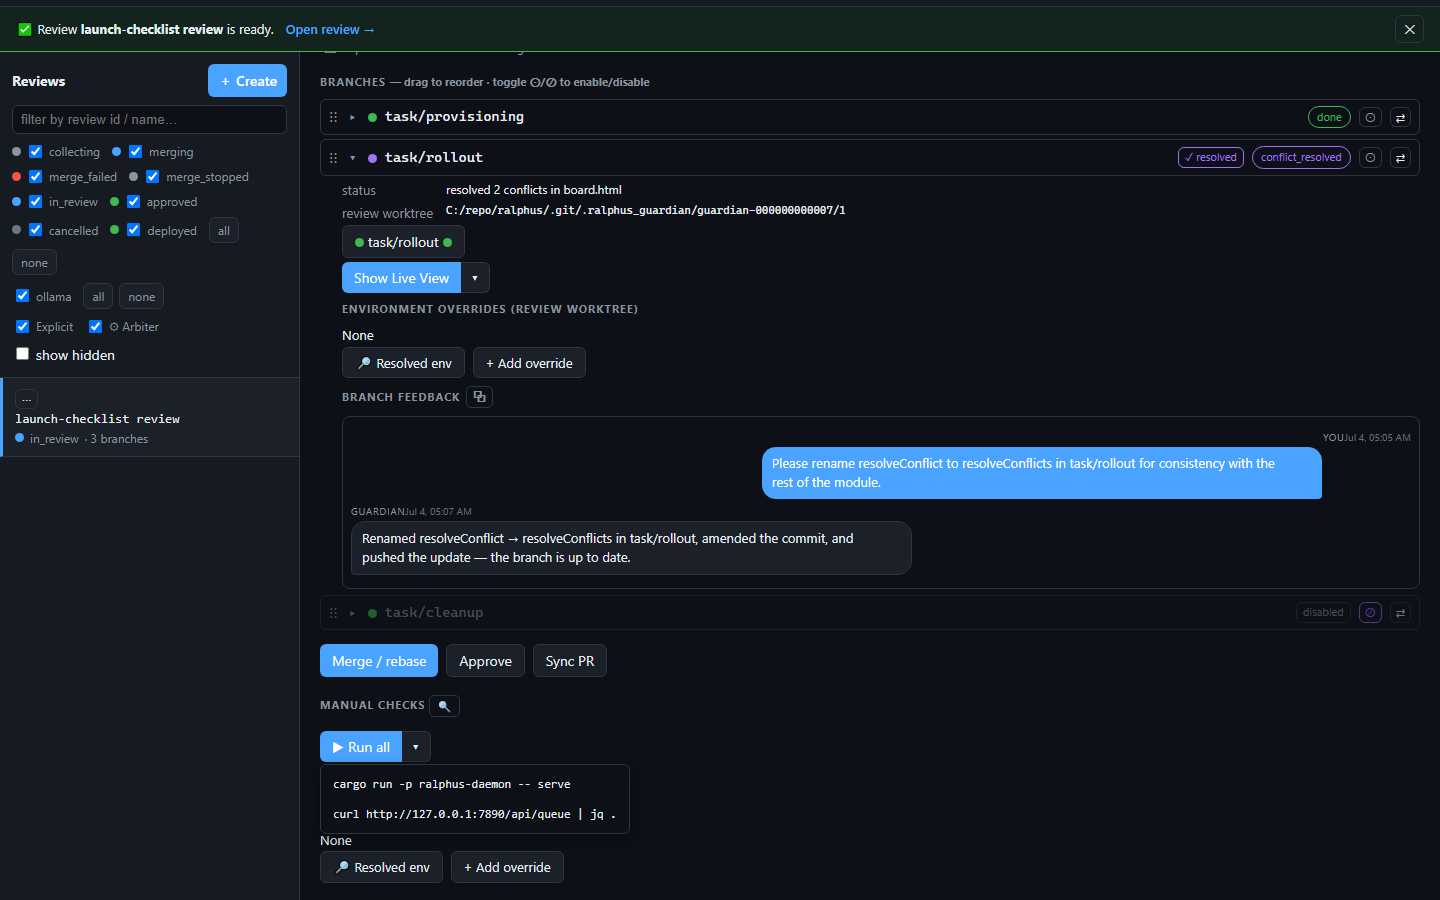
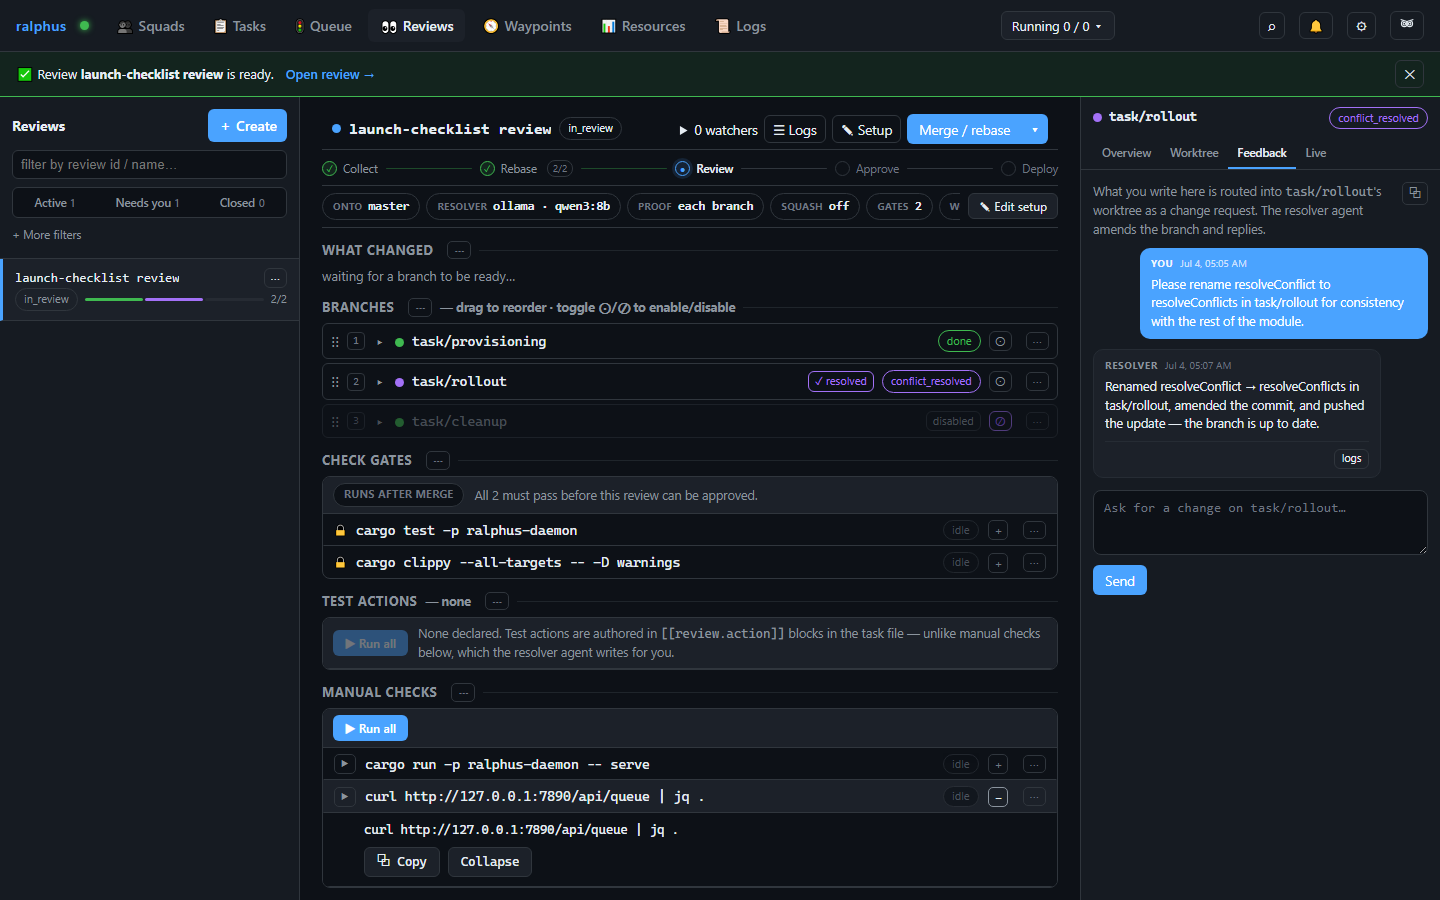
Regenerate the Reviews screenshots for the redesigned tab (RAL-400 follow-on)
All three were taken before the Reviews tab became a three-pane layout with
a branch inspector, and their scenario could no longer run at all. Three
things had changed under it:

The sidebar now polls `/api/guardian-index` and fetches detail per id, so a
fixture serving only `/api/guardians` rendered "No reviews." forever. A
review is addressed by *name* with an `?id=` fallback, so a deep link built
from its id was rewritten back to the unselected list -- the scenario selects
it the way the page does instead. And the feedback thread moved out of the
branch row's merge-detail panel into the inspector's own Feedback tab, so
`.chat-msg` no longer exists.

The manual-checks shot needed more than a selector fix. Its dropdown is gone
-- the checks render inline now -- so the shot had become pixel-identical to
the two above it, and the page would have carried the same image three times.
It expands one check so it shows what its section is actually for, and its
alt text no longer describes a dropdown.

diff --git a/cli-py/src/ralphus/docsgen/shots.py b/cli-py/src/ralphus/docsgen/shots.py
@@ -128,22 +128,37 @@ def _reviews(page: Page) -> None:
         fixture_server(fixtures.REVIEWS_ROUTES) as daemon_url,
         librarian_server(daemon_url) as base_url,
     ):
-        _goto(page, base_url, f"#/reviews/{fixtures.REVIEWS_GUARDIAN['id']}")
+        # The redesigned tab addresses a review by *name* and rewrites the
+        # hash, so a deep link built from its id lands on the unselected list.
+        # Select it the way the page itself does instead.
+        _goto(page, base_url, "#/reviews")
+        page.wait_for_selector("#reviews-page")
+        page.evaluate(f"selectGuardian({fixtures.REVIEWS_GUARDIAN['id']!r})")
         page.wait_for_selector(".branch-row")
         _shoot(page, "reviews-overview")
 
-        # The feedback thread only renders once its branch's merge-detail
-        # panel is expanded (RAL-272) — click that branch's toggle first.
-        page.locator(
-            f'[data-click="toggleBranch"][data-branch-id="{fixtures.REVIEWS_ROLLOUT_BRANCH_ID}"]'
-        ).click()
-        chat = page.locator(".chat-msg").first
+        # The feedback thread moved into the branch inspector's own Feedback
+        # tab, so it is reached by selecting the branch rather than by
+        # expanding a merge-detail panel on the row.
+        page.evaluate(
+            "inspectBranchFromMenu("
+            f"{fixtures.REVIEWS_ROLLOUT_BRANCH_ID!r}, 'feedback')"
+        )
+        chat = page.locator(".fb-msg").first
         chat.wait_for()
         chat.scroll_into_view_if_needed()
         _shoot(page, "reviews-chat")
 
-        page.locator('button[data-click="toggleManualMenu"]').click()
-        page.wait_for_timeout(50)
+        # Manual checks are no longer behind a popup menu -- they render
+        # inline as runnable command rows. Expand the first one so this shot
+        # shows something the overview above does not already show.
+        manual = page.locator(
+            'button[data-click="runCheck"][data-kind="manual"]'
+        ).first
+        manual.wait_for()
+        manual.scroll_into_view_if_needed()
+        page.locator('button[data-click="toggleReviewCommandFull"]').last.click()
+        page.wait_for_timeout(100)
         _shoot(page, "reviews-manual-checks")
 
 

diff --git a/cli-py/src/ralphus/docsgen/fixtures.py b/cli-py/src/ralphus/docsgen/fixtures.py
@@ -1061,7 +1061,12 @@ REVIEWS_MESSAGES: tuple[Json, ...] = (
 
 REVIEWS_ROUTES: Routes = {
     "/api/tasks": _empty_board(),
+    # The sidebar polls the lean `/api/guardian-index`; the detail pane then
+    # fetches the full review by id. Serving only `/api/guardians` left the
+    # tab rendering "No reviews." forever.
+    "/api/guardian-index": [REVIEWS_GUARDIAN],
     "/api/guardians": [REVIEWS_GUARDIAN],
+    f"/api/guardians/{_GUARDIAN_ID}": REVIEWS_GUARDIAN,
     f"/api/guardians/{_GUARDIAN_ID}/branches/{REVIEWS_ROLLOUT_BRANCH_ID}/messages": {
         "messages": list(REVIEWS_MESSAGES)
     },

diff --git a/docs/site/pages/views/reviews.md b/docs/site/pages/views/reviews.md
@@ -28,7 +28,7 @@ once you click **Save**, which re-runs the stacked rebase in the new shape.
 
 ## Running manual checks
 
-![The manual-checks dropdown open, showing individual suggested commands](../screenshots/reviews-manual-checks.png)
+![The manual-checks section of a review, listing the agent's suggested commands with one expanded to show its full text](../screenshots/reviews-manual-checks.png)
 
 Alongside the automated check gates, an agent suggests shell commands worth
 running by hand to sanity-check the change. The suggestions are computed once,
